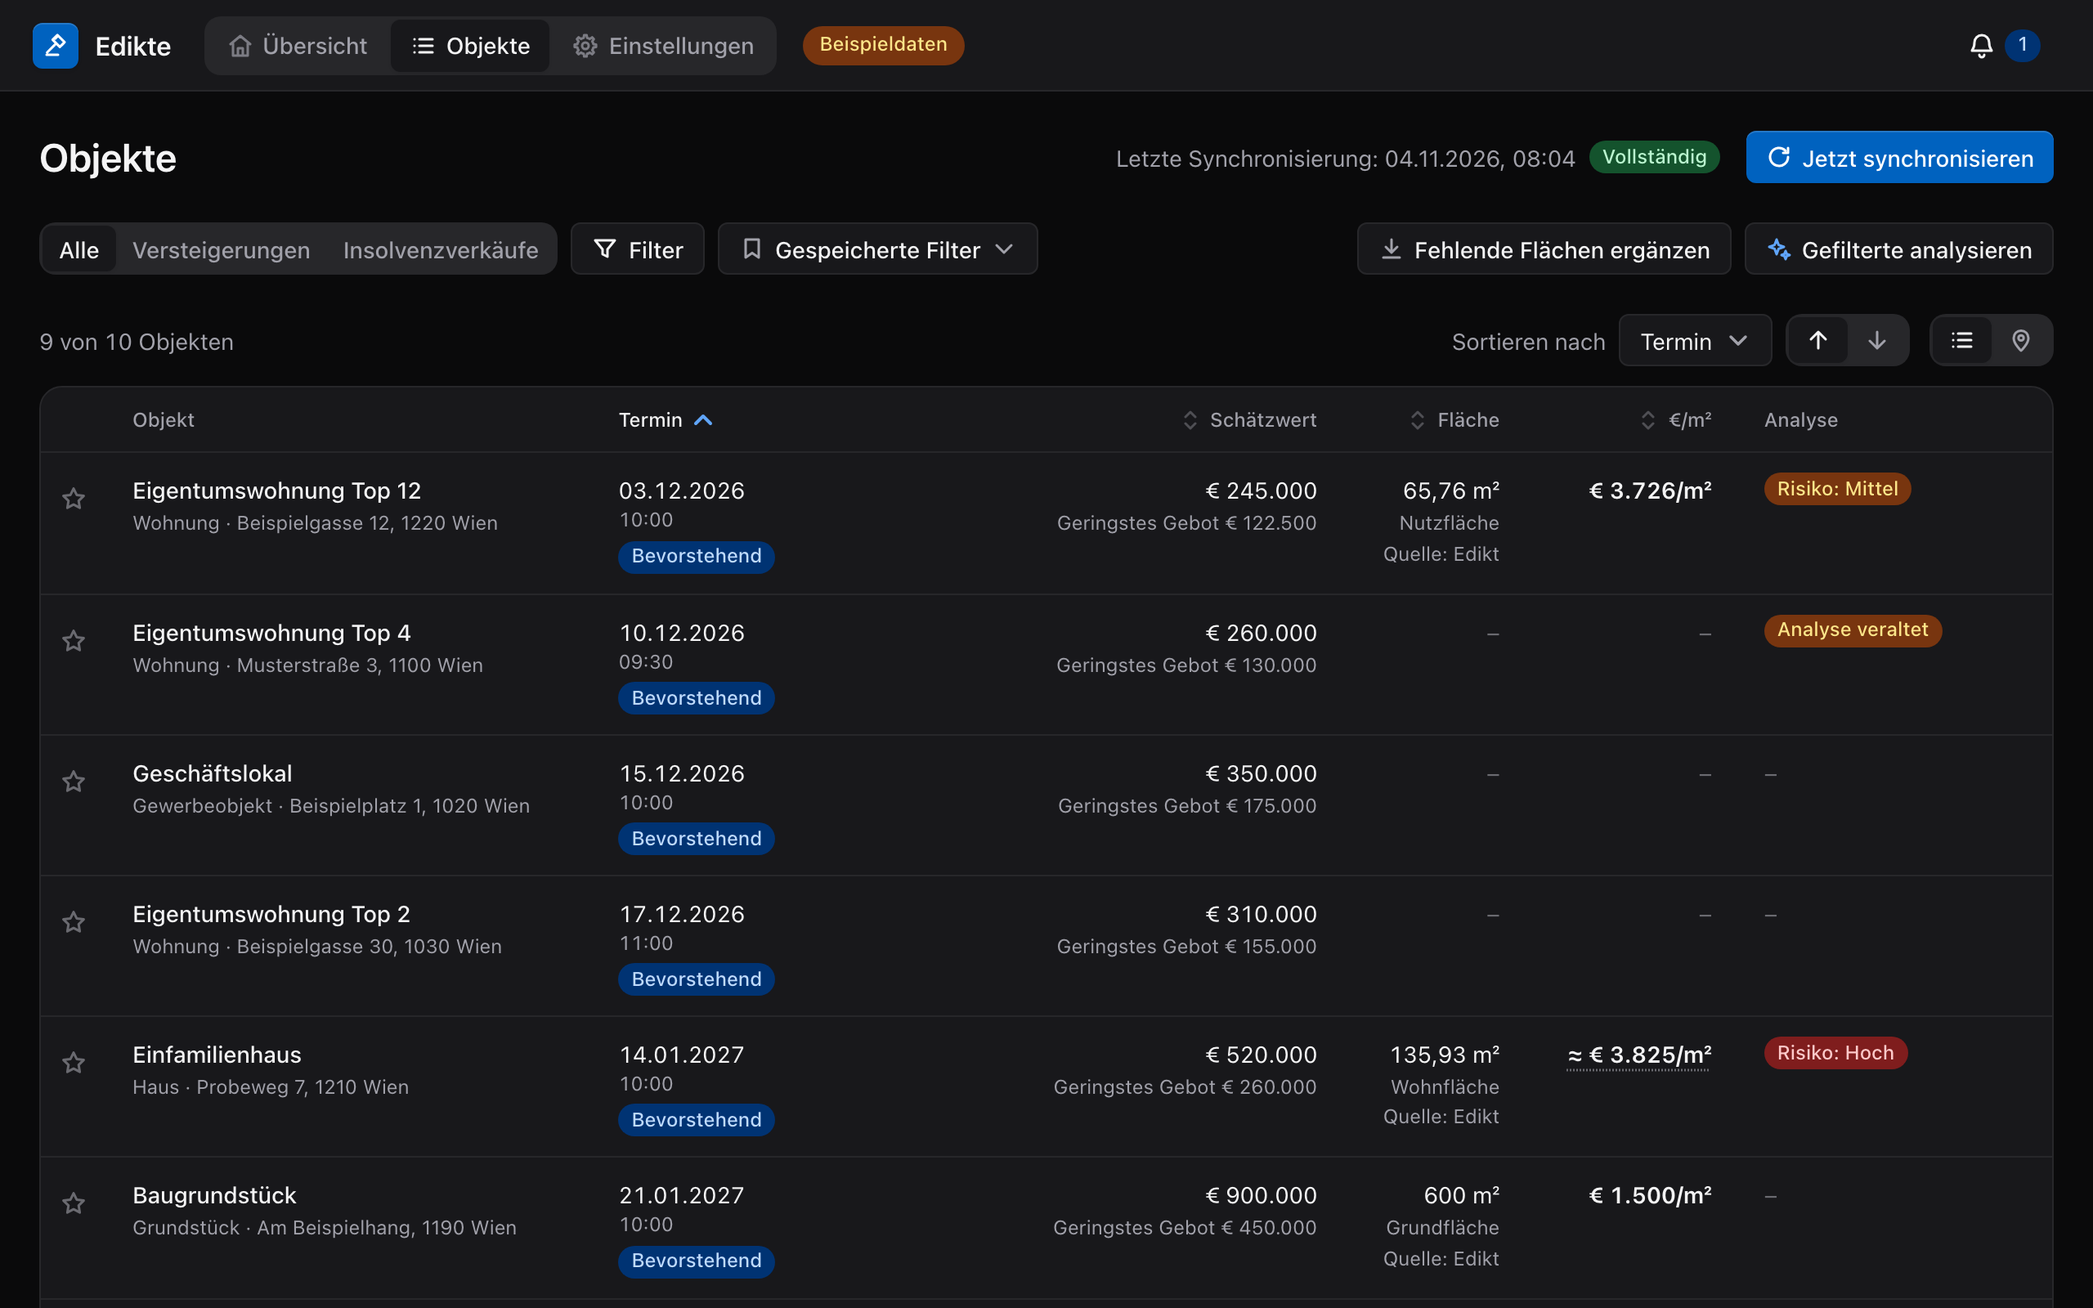
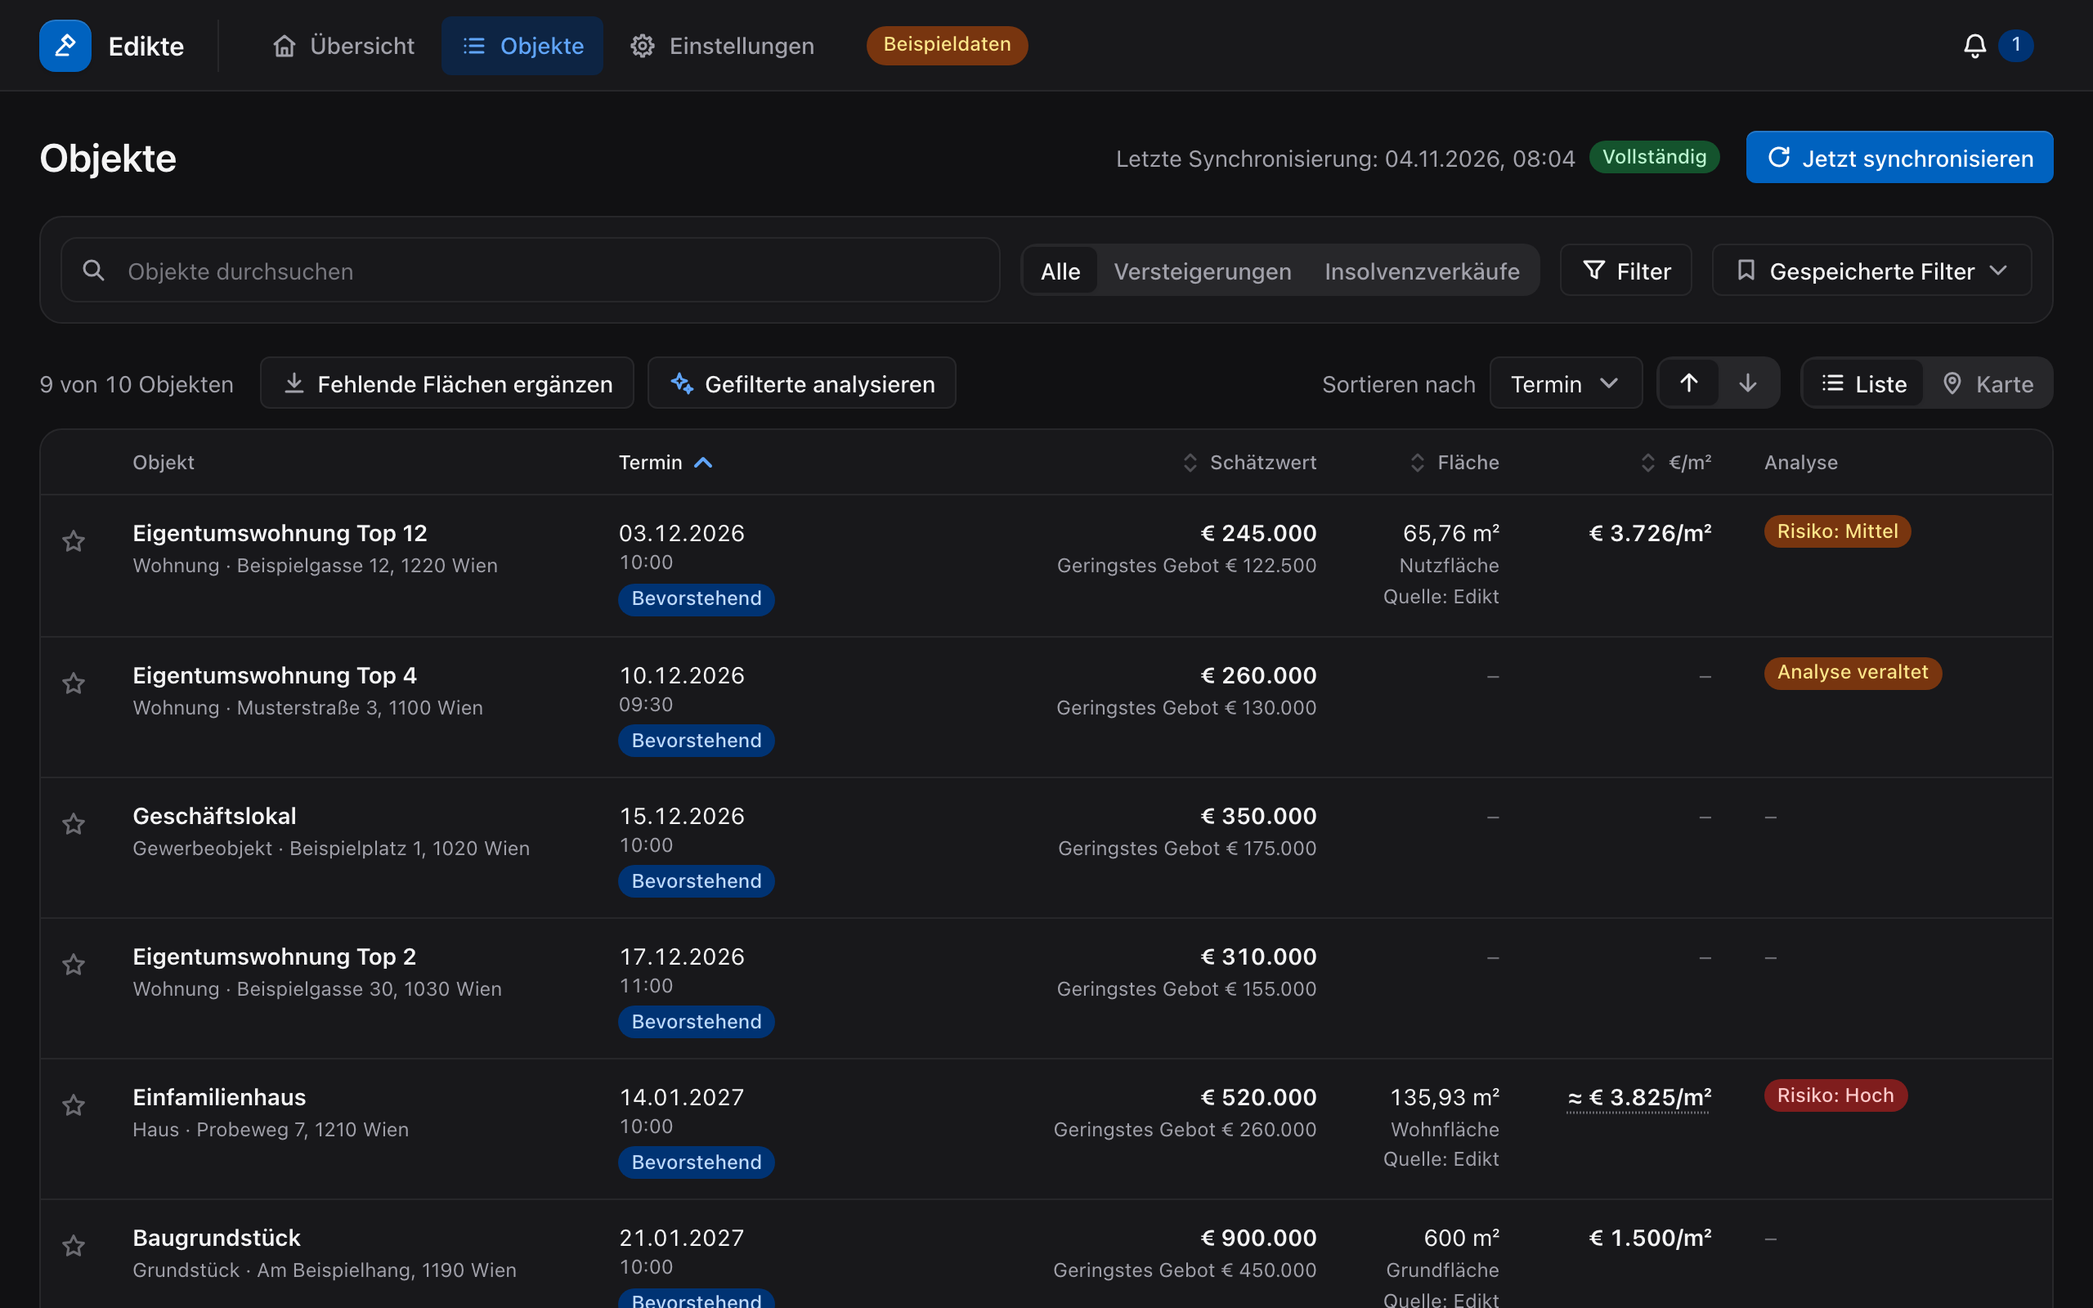
chore(release): prepare Edikte 0.3.0

diff --git a/SESSION_HANDOFF.md b/SESSION_HANDOFF.md
@@ -1,86 +1,29 @@
-# Session handoff: 2026-11-12
-
-Project: Edikte. Branch: `codex/listing-completeness-prices`. Feature implementation is committed as `6af1a37`, based on `37cb0a6`; the earlier price/completeness fixes remain in `1525f78`. The user approved and requested implementation of the saved-search notification and opening-dashboard plan. The installed app and real user-data folder were not opened or migrated. No release, push, or install was requested.
+# Edikte v0.3.0 handoff — 2026-11-22
 
 ## Completed
 
-- Dashboard is the startup screen after onboarding and on subsequent launches. It combines saved searches without duplicate cases, supports one-search selection, and shows matching/new/upcoming/starred counts, property previews, saved-search alert controls, recent digests, and source freshness.
-- Added typed query/saved-search-union/notification result collections. Dashboard counts and drill-downs share the same resolver. Dashboard and Listings stay mounted; details return to the actual opener with selection and scroll retained.
-- Added a transactional discovery journal with monotonic IDs, immutable first-discovery snapshots, silent legacy and per-source/region import baselines, and merge aliases for corrected case identities and old-key reissues.
-- Added per-search after-sync/daily/weekly alerts, configurable Vienna wall time and weekday, desktop preferences, transactional cursors/candidates, restart catch-up, zero-count suppression, partial-source coverage, and delivery-time rechecks.
-- Added immutable notification membership/history, unread state, pagination, desktop attempt/failure reporting, test delivery, persisted pending-open handoff, and desktop activation restoration. Windows has a stable AppUserModelID and toast CLSID; macOS cold-click identifiers are captured from the ready event before startup.
-- Added alert configuration to shipped presets without changing their protected criteria. Pausing, semantic edits, scope changes, schedule-only edits, and deletion follow the approved baseline/history rules.
-- Added German/English UI and native copy, browser mock support with made-up data, and README feature documentation.
-- Fixed two shared controls exposed by the real Electron flow: switches now separate accessible labels from descriptions; select menus inside dialogs render above the modal overlay.
-- Independent plan and implementation review completed. Confirmed native bootstrap issues were fixed and rechecked; no unresolved code review finding remains.
+This release includes the published-price parser fix, the saved-search dashboard and alerts, and the November efficiency and design passes. Existing listings are reparsed on the next sync after updating. Court appraisal values and minimum bids retain their own labels and filter semantics.
 
-## Key files changed
+- SQLite builds listing details for the representative of each case. Dashboard queries reuse matches, and idle notification checks avoid loading listings. Hidden screens pause queries and map geocoding.
+- Partial pagination and recoverable notice failures preserve readable listings, flag the sync and retry on a later pass. The first complete import establishes the new-listing alert baseline. A locked PDF keeps its index and extracted pages for the next cleanup attempt.
+- Listings has direct search and shows publication dates when sorted by publication. The dashboard groups its counts, Settings opens with sources and regions, and property documents remain near the top in a 960-pixel window. The README screenshots use the updated renderer with fabricated data.
 
-- Contracts: `src/shared/notifications.ts`, `ipc.ts`, `ipc-channels.ts`.
-- Persistence: `src/main/db/{schema,discovery-store,notification-store,collection-store,dashboard-store,listing-store,sync-store}.ts`; generated migration `0007_saved_search_notifications.sql` and metadata. Existing database backup-before-migration behavior remains active.
-- Services: `src/main/services/notifications/` (scheduler, service, native transport, formatter, activation parsing), sync pass-settled hook, main bootstrap and validated IPC integration.
-- Renderer: dashboard, notifications, and collections feature directories; app shell/context; preserved detail origins; saved-search menu; translations/resources; mock support; shared select/switch controls.
-- Verification: focused discovery/dashboard/notification/migration/service/schedule/activation/mock tests; extended Electron smoke journey.
+## Files
 
-## Verification state
+The database changes live in `src/main/db`, with sync and file cleanup in `src/main/scraper/sync.ts` and `src/main/documents/retention.ts`. The screens and their localized text live in `src/renderer/src/features`. The bilingual release notes are in `docs/releases/v0.3.0.md`.
 
-- `npm run typecheck`: passed.
-- `npm run lint`: passed.
-- `npm run format:check`: passed.
-- `npm test`: 805 passed, 2 opt-in live tests skipped, across 81 test files.
-- `npm run test:e2e`: passed. Covers onboarding to dashboard, both languages, real persisted weekly alert configuration/time/weekday/desktop preference, notification empty state/unsupported transport, collection return navigation, and Listings navigation.
-- Mock browser checks: English/German, light/dark, 960 px no horizontal overflow, selected-search preservation through detail navigation, fixed notification results, and no page errors.
-- Packaged macOS arm64 build: produced in an isolated temporary output directory; code signature is ad hoc. Packaged self-check exited 0 with a temporary database and offline mode.
-- Packaged native delivery, 2026-11-12: resumed on the unlocked Mac using a separate test bundle identifier and a baked-in temporary database path, with three fabricated digests prepared for running/restarted/fully-quit click scenarios. Three actual delivery attempts failed with `Notifications are not allowed for this application`. The macOS notification service logged `Failed to find or validate client of identifier` for the isolated bundle. Launch Services registration and strict code-signature verification were checked; a parent-only identifier requirement was also tested on the temporary bundle, without resolving the rejection. The app showed failed desktop delivery and retained the original digest and its one item. No native banner appeared, so all native click scenarios remain unverified. Further delivery retries stopped under the workspace three-failure rule. No product code or OS notification preference was changed.
-- `git diff --check`: passed before handoff.
-- No live scraping or AI request ran for this feature; tests and app checks used temporary data.
+## Verification
 
-## Remaining / known gaps
+- Typecheck, lint, formatting and the built Electron smoke journey use the scripts in package.json. The final unit suite passed 815 tests and skipped the two opt-in suites.
+- A direct, rate-limited check on November 22 read all three Vienna JustizOnline result pages, with 236 distinct listings and an oldest publication date of 2023-01-17. A real court notice yielded a EUR 523,500 written minimum bid and EUR 69,800 deposit.
+- In a local synthetic benchmark with 800 listings and 20 overlapping saved searches, median dashboard reads fell from 23.92 ms to 12.29 ms. Browser checks covered German and English, light and dark, 960- and 1280-pixel windows, keyboard focus, search, chronological sorting, list/map switching, setup validation and notification filters.
+- Native OS banner delivery and cold-click behavior remain unverified on the distributed builds. The earlier isolated ad-hoc macOS test bundle was refused by Notification Center. In-app digests are available. App and browser checks used temporary or fabricated data.
 
-- Concurrent renderer edits appeared during final cleanup (`collection-screen.tsx`, `notifications-screen.tsx`, `settings-screen.tsx`, plus new `page.tsx` and `tile.ts`). This check neither edited nor committed them. The recorded automated checks apply to feature revision `6af1a37`, not these concurrent edits.
-- macOS native display/click testing is blocked by app-identity validation, rather than the lock screen. The current local test build and the existing `/Applications/Edikte.app` both use ad-hoc signatures. A macOS-accepted signed test build or a Developer ID signing setup is the next candidate to test; the precise signing requirement is not established. A question requesting a signed build/signing setup was sent to the user. Do not retry the same rejected configuration without a changed condition. Keep any cold-launch test isolated: a CLI-only temporary-data environment variable is lost when macOS launches an app from a notification, so the temporary test copy bakes the data path into its bootstrap.
-- Verify native display and historical/cold activation on an installed Windows build; this environment is macOS.
-- No release, version bump, push, or installation was performed. Alerts default off for every saved search.
-- Native test report: `/Users/nationalbank/.codex/visualizations/2026/11/11/01a1cb46-76b7-7dc0-98fc-1b30efc59458/native-notifications-check-2026-11-12.md`.
-- Dashboard screenshot with made-up data: `/Users/nationalbank/.codex/visualizations/2026/11/11/01a1cb46-76b7-7dc0-98fc-1b30efc59458/edikte-dashboard.png`.
+## Release verification
 
-## Resume commands
+The tag workflow checks both Mac architectures, verifies each DMG and ZIP, installs and self-checks the Windows x64 installer, then assembles five downloads and a SHA-256 manifest. These commands show the current published assets and the run that produced them.
 
 ```sh
-cd /Users/nationalbank/GitHub/Edikte
-git status --short
-git log -3 --oneline
-npm run typecheck
-npm run lint
-npm run format:check
-npm test
-npm run test:e2e
+gh release view v0.3.0 --json isDraft,tagName,url,assets
+gh run list --workflow Release --branch v0.3.0 --limit 1
 ```
-
-Reuse the successful checks for the same revision; rerun only those invalidated by further changes. Development or packaged checks must set `EDIKTE_USER_DATA_DIR` to a fresh temporary directory. `EDIKTE_OFFLINE=1` prevents automatic sync/provider detection. Automated Electron tests additionally set `EDIKTE_DISABLE_DESKTOP_NOTIFICATIONS=1`; native manual checks omit that variable. Packaged startup self-checks use `EDIKTE_SMOKE_TEST=1`, which disables native delivery.
-
-## Decisions made
-
-- New means newly committed property discovery, matched once using the discovery snapshot. Later price, area, analysis, or star changes do not introduce an old property as a new alert match. Missing information can prevent qualification; alerts never start AI or downloads.
-- Discovery IDs determine processing progress; commit timestamps determine reporting periods. Source-page fetch times cannot lose a row across a digest cutoff.
-- Initial imports and legacy data are baseline entries, excluded from new counts and alerts while included in total matching results.
-- Schedules use Europe/Vienna wall time: nonexistent DST times move to the next valid minute, repeated times use the first occurrence. Missed periods combine into one catch-up digest per search.
-- Delivery rechecks may discard pending candidates; published digests retain their original count, membership, and previews permanently, with current availability shown separately.
-- Current app lifecycle is retained; no tray mode, external agent, email service, or server was added.
-
-## Design pass (separate Claude session)
-
-This is the concurrent renderer work named under "Remaining / known gaps". It is committed on `codex/listing-completeness-prices` as `feat(renderer): unify screen layout and simplify the shell`.
-
-- Shared screen frame: `components/ui/page.tsx` (`Page`, `PageHeader`) and `components/ui/tile.ts` (`TILE`, `TILE_INTERACTIVE`). Dashboard, listings, notifications, collection and settings use them.
-- Dashboard: stat tiles, empty sections collapsed to one row, listing tiles with label/value rows, saved searches as rows, baseline and tracking notes moved into Data freshness.
-- Listings table: 12 px cell padding below 1280 px (`CELL_X`), so the property column no longer truncates at 960 px.
-- Settings: equal-width dividers in Data and sync. Detail: no "not downloaded" badge beside the Download button. Filter dialog: top spacing.
-- Shell: footer removed; the header language picker shows only during setup. Version and data folder are in Settings. `shell.dataDir` removed from both languages; README points to Settings for the data folder path.
-- `tests/e2e/smoke.spec.ts` switches language through the Settings radios and reads version and data folder from Settings.
-
-Checked before the commit: `npm run typecheck`, `npm run lint`, `npm run format:check`, `npm test` (805 passed, 2 skipped), `npm run test:e2e` (1 passed, run in the Terminal panel), and the mock renderer in English and German, light and dark, at 960 and 1280 px.
-
-The README screenshots in `docs/screenshots/` were regenerated afterwards with `npm run screenshots`; the script now opens Listings after setup, which ends on the dashboard.
-
-Not checked: Windows and a packaged build.

diff --git a/docs/releases/v0.3.0.md b/docs/releases/v0.3.0.md
@@ -1,0 +1,23 @@
+# Edikte v0.3.0
+
+## Deutsch
+
+Nach dem Update liest Edikte vorhandene Bekanntmachungen beim nächsten Abgleich erneut. Auch ein im Text genanntes Mindestanbot erscheint jetzt als Preis. Stehen weder Schätzwert noch Mindestgebot in der Bekanntmachung, zeigt die Objektliste „Nicht angegeben“.
+
+- Die Suche steht direkt über der Objektliste. Um ältere Angebote zu finden, wählen Sie unter „Sortieren nach“ die Veröffentlichung und anschließend den Aufwärtspfeil.
+- Die Übersicht bündelt Treffer aus gespeicherten Suchen. Benachrichtigungen lassen sich nach jedem Abgleich, täglich oder wöchentlich zustellen. Die erste Übernahme vorhandener Objekte löst keine Meldung aus.
+- Ein unvollständiger Abgleich ist als solcher sichtbar. Bereits gelesene Angebote bleiben erhalten. Falls eine gespeicherte Gutachtendatei beim Aufräumen gesperrt ist, bleiben ihr Eintrag und die extrahierten Seiten erhalten.
+- Auch in kleinen Fenstern stehen die Dokumente neben den Objektdaten. Die Einstellungen öffnen mit Datenquellen und Bundesländern.
+
+Für macOS gibt es DMG und ZIP für Apple-Chip und Intel, für Windows einen 64-Bit-Installer. Die Pakete haben kein Entwicklerzertifikat. Desktop-Mitteilungen hängen von den Berechtigungen des Betriebssystems ab. Meldungen lassen sich auch in der App öffnen. [Installationsanleitung](https://github.com/salexandr0s/Edikte#installation)
+
+## English
+
+After updating, sync once to refresh existing notices. Edikte now picks up minimum offers written in the notice text. If the notice gives neither an appraised value nor a minimum bid, the Listings price column reads “Not stated.”
+
+- Search directly above the listings. To find older offers, choose **Publication date** under **Sort by**, then select the up arrow.
+- The dashboard brings together matches from your saved searches. Alerts can run after each sync, daily or weekly. The initial import stays quiet.
+- An incomplete sync now shows a warning and keeps the listings already read. If a saved appraisal file is locked during cleanup, Edikte keeps its record and extracted pages.
+- Property documents sit alongside listing details even in a small window. Settings opens with data sources and regions.
+
+Download the DMG or ZIP for your Mac's processor, or the 64-bit Windows installer. These builds have no developer certificate. Desktop banners depend on operating-system permissions. Digests are also available in the app. [Installation instructions](https://github.com/salexandr0s/Edikte#installation-1)

diff --git a/README.md b/README.md
@@ -59,8 +59,8 @@ Die App ist für den privaten Gebrauch gedacht. Sie ist kein Angebot des Bundesm
       <sub><b>Filter:</b> Änderungen wirken sofort auf die Liste.</sub>
     </td>
     <td width="50%" valign="top">
-      <img src="docs/screenshots/settings-de-light.png" alt="Einstellungen mit den KI-Anbietern ChatGPT, Claude und Codex">
-      <sub><b>Einstellungen:</b> KI-Anbieter mit Konto, Modell und Programmpfad.</sub>
+      <img src="docs/screenshots/settings-de-light.png" alt="Einstellungen für Datenquellen, Bundesländer und Synchronisierung">
+      <sub><b>Einstellungen:</b> Datenquellen, Bundesländer und Synchronisierung.</sub>
     </td>
   </tr>
 </table>
@@ -167,7 +167,7 @@ node scripts/run-self-check.mjs dist/mac-arm64/Edikte.app/Contents/MacOS/Edikte
 Für ein Release erhöhen Sie die Version und pushen den Tag:
 
 ```sh
-npm version 0.2.0 -m "chore(release): %s"
+npm version patch -m "chore(release): %s"
 git push --follow-tags
 ```
 
@@ -222,8 +222,8 @@ The app is meant for personal use. It is not a service of the Austrian Federal M
       <sub><b>Filters:</b> changes apply to the list at once.</sub>
     </td>
     <td width="50%" valign="top">
-      <img src="docs/screenshots/settings-en-light.png" alt="Settings with the AI providers ChatGPT, Claude and Codex">
-      <sub><b>Settings:</b> AI providers with account, model and program path.</sub>
+      <img src="docs/screenshots/settings-en-light.png" alt="Settings for data sources, regions and sync">
+      <sub><b>Settings:</b> Data sources, regions and sync.</sub>
     </td>
   </tr>
 </table>
@@ -330,7 +330,7 @@ node scripts/run-self-check.mjs dist/mac-arm64/Edikte.app/Contents/MacOS/Edikte
 To release, raise the version and push the tag:
 
 ```sh
-npm version 0.2.0 -m "chore(release): %s"
+npm version patch -m "chore(release): %s"
 git push --follow-tags
 ```
 
